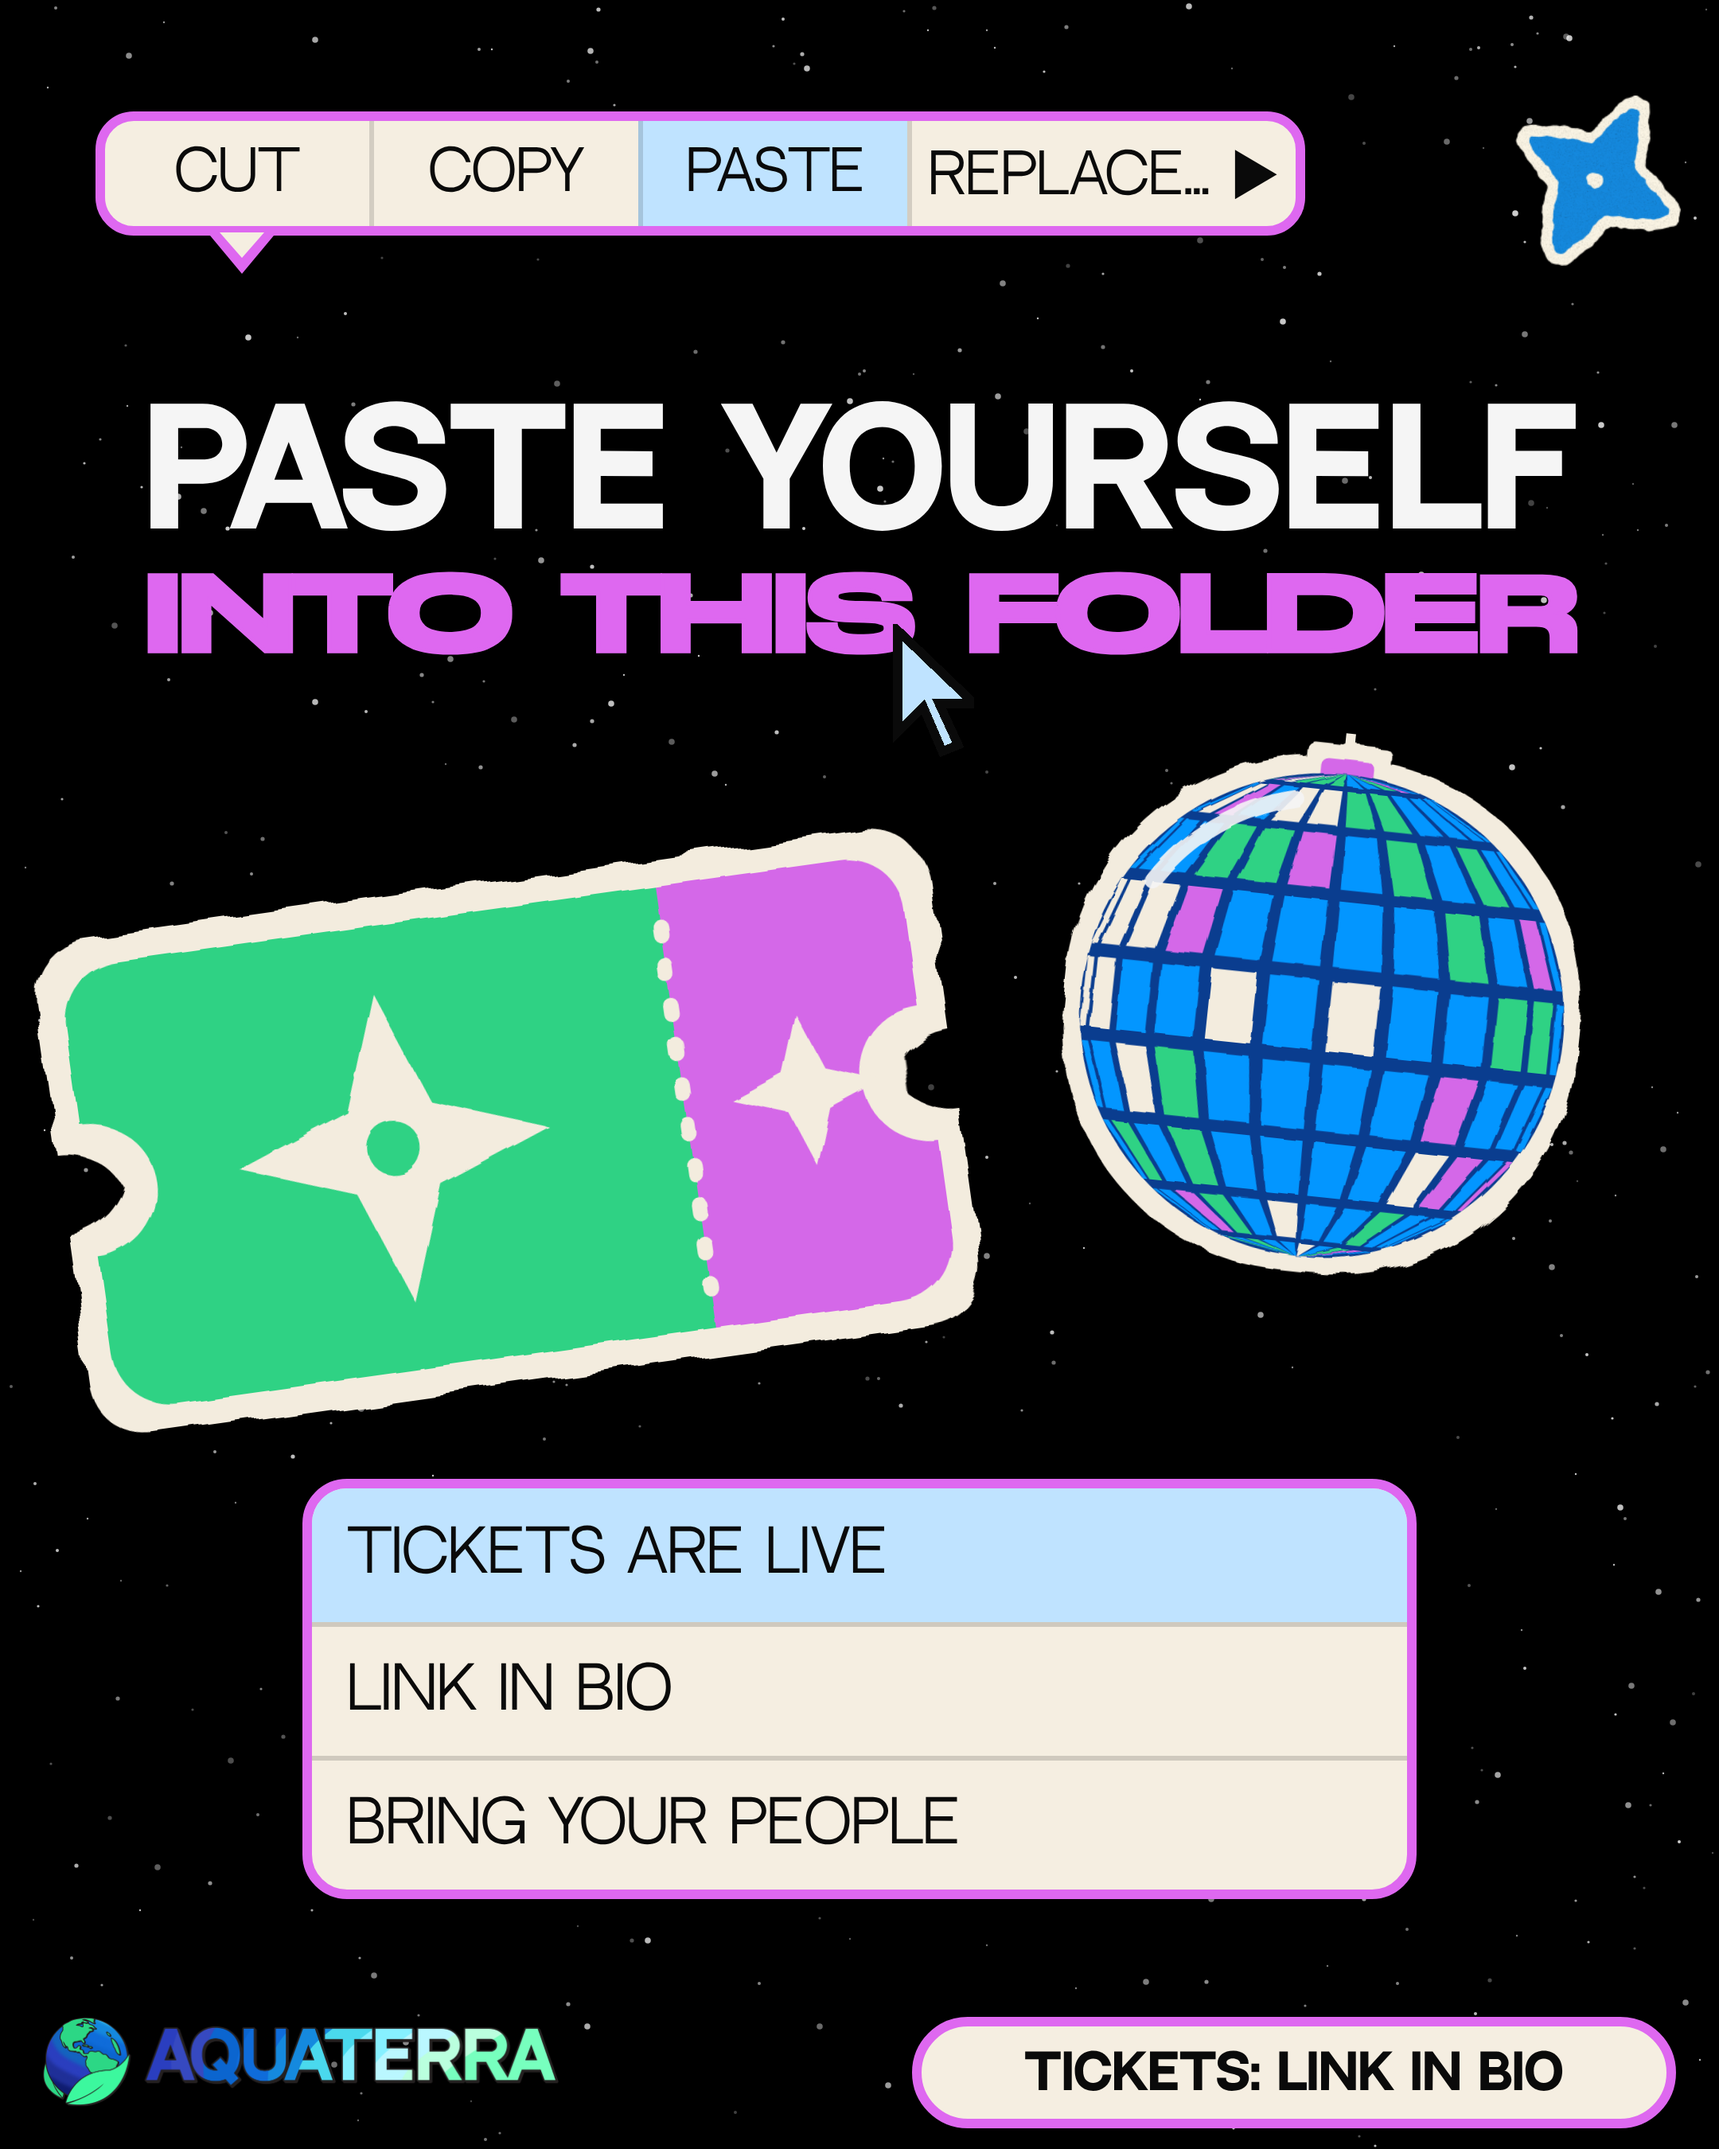
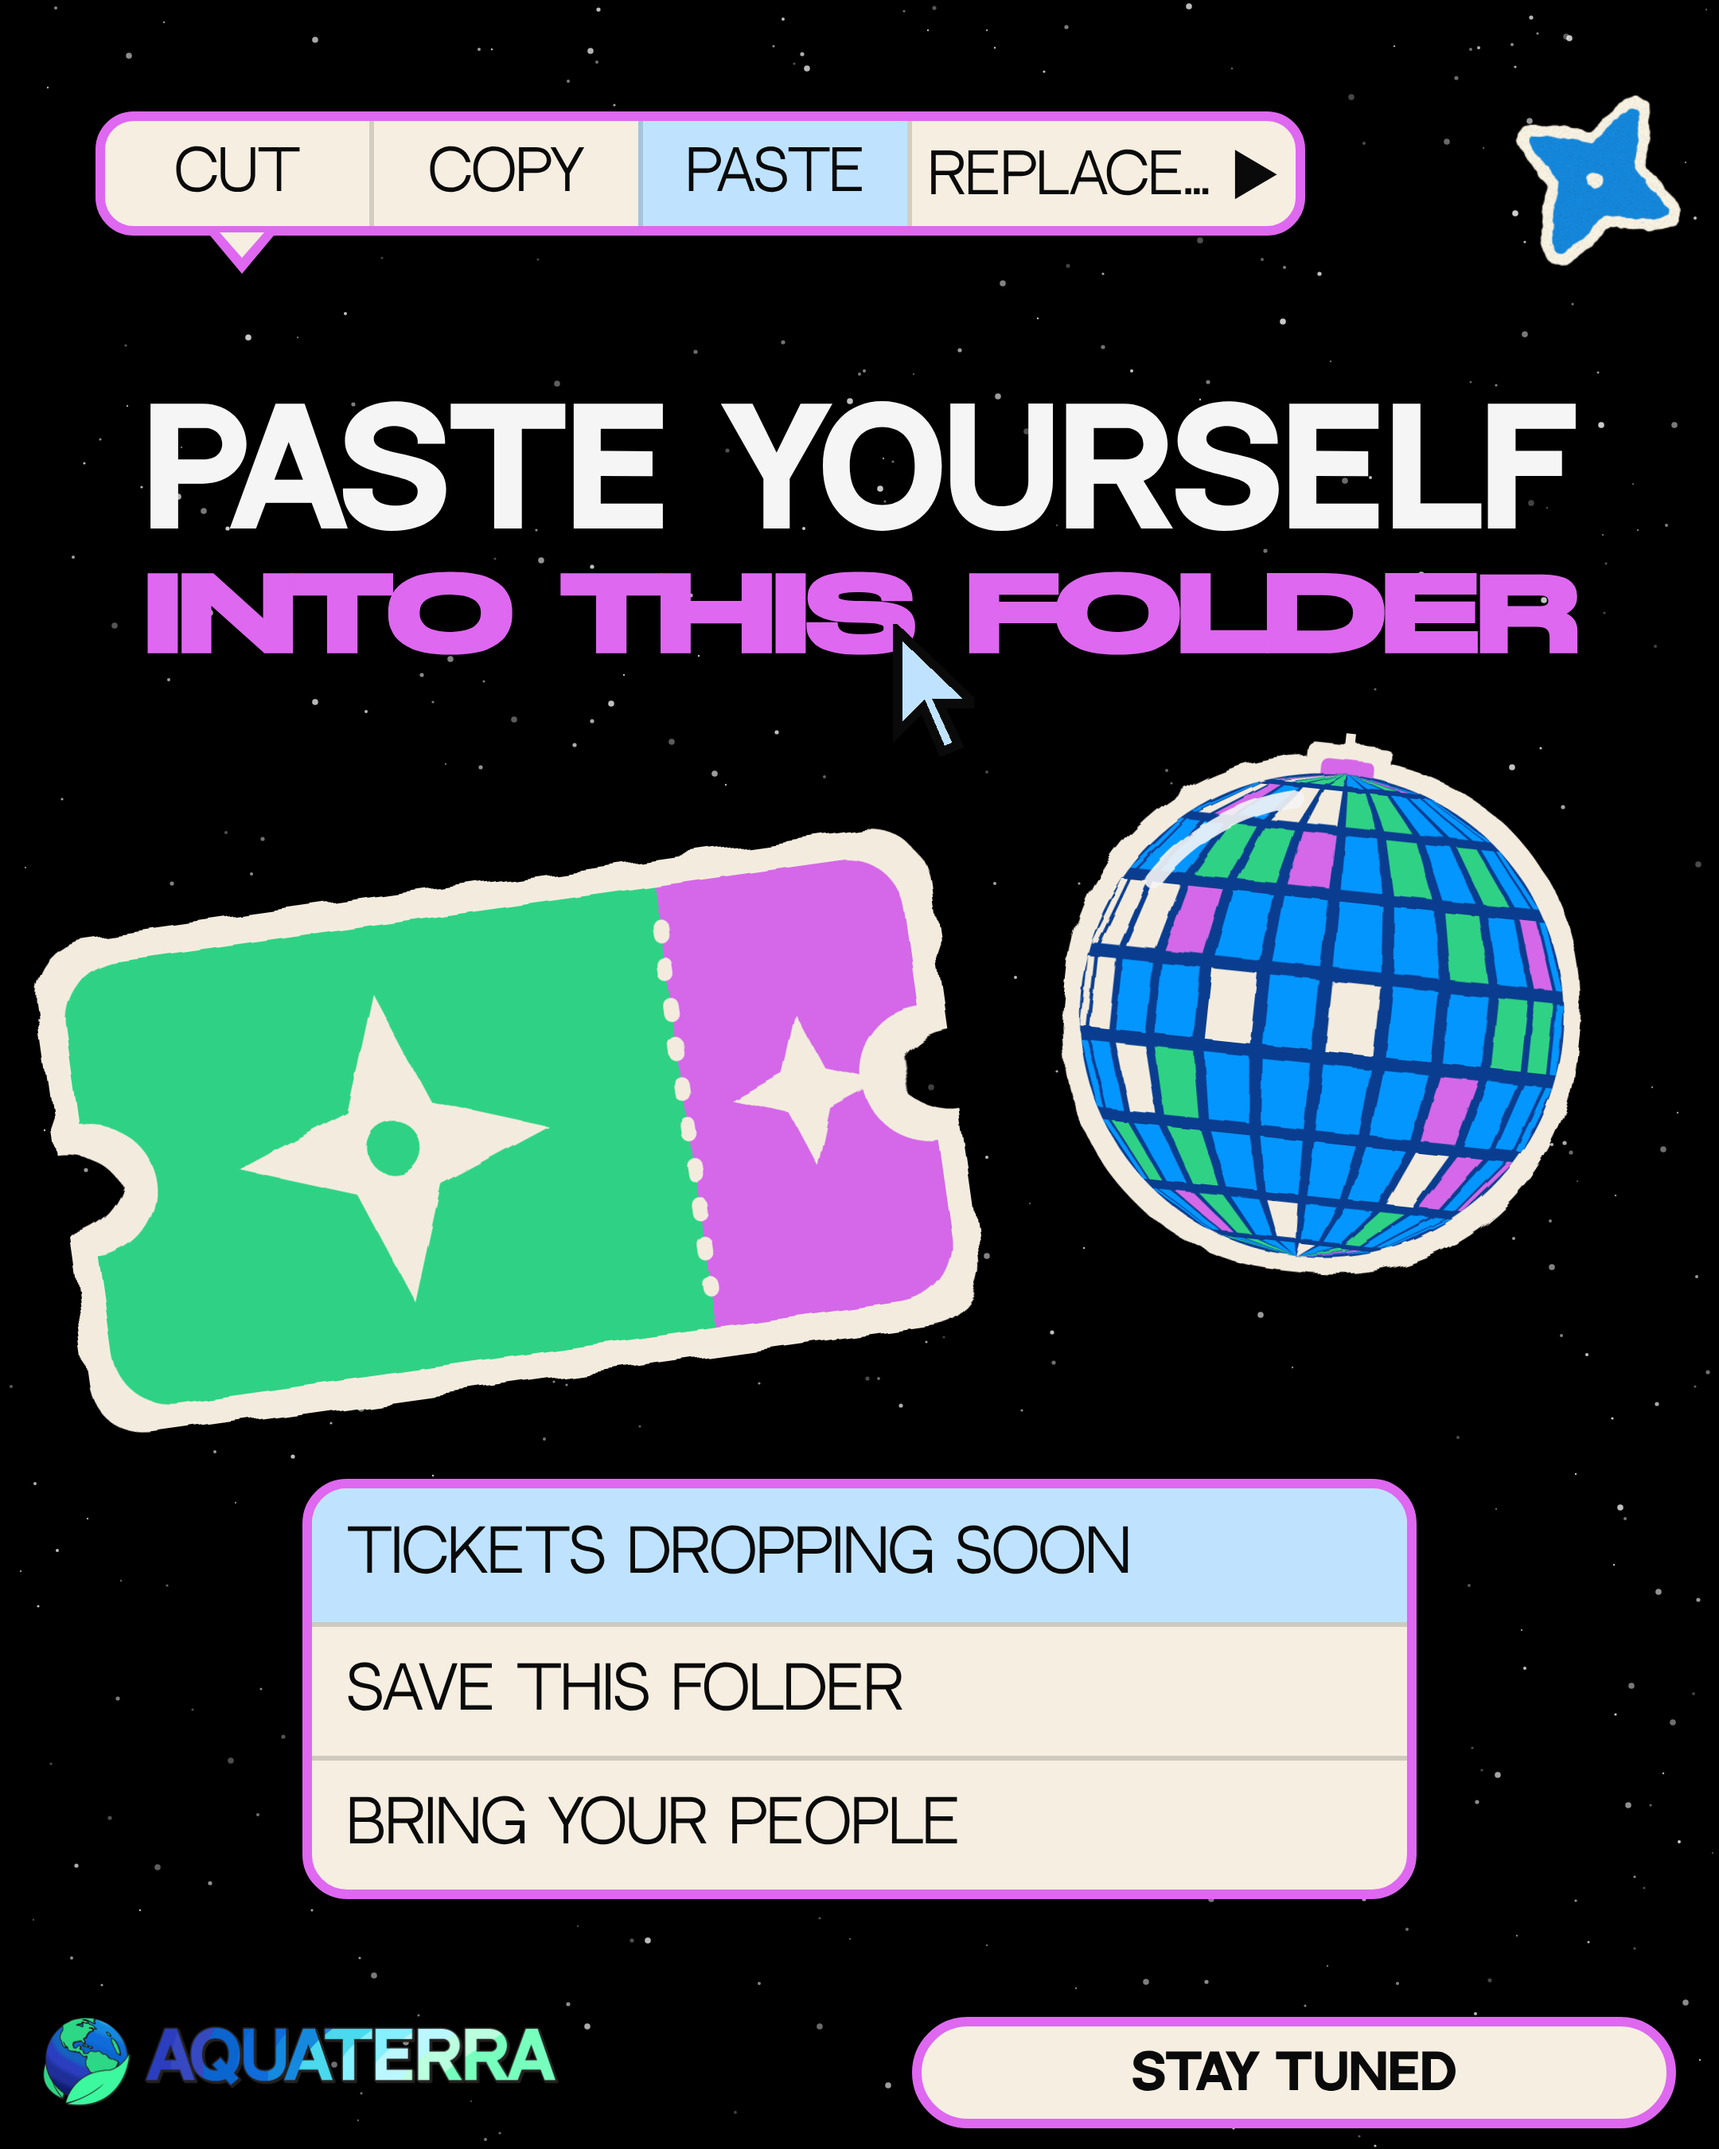
DD folder carousel: teaser closer (tickets not on sale yet)
Claude-Session: https://claude.ai/code/session_01FPyADAfvcX9LT1jBMzRpbG

diff --git a/scratchpad/tt_dd_folder_carousel.py b/scratchpad/tt_dd_folder_carousel.py
@@ -3,6 +3,7 @@ Mechanism borrowed from a reference post: a desktop-UI parody. A context-menu pi
 title (bold + light), a pixel cursor sitting on a letter, a dropdown list card with one highlighted row, flat blue folders, and
 three photos peeking out of a folder front. Dressed in TerraThon: black ground, orchid-bordered cream UI, StretchPro name,
 kit shuriken, the DD disco ball / ticket / diya stickers, the user's three real Disco Diwali photos.
+TEASER: tickets are NOT on sale yet (user, 2026-10-10), so no sale CTA, no link in bio.
 Slides: 1 cover (the folder) / 2 dance.jpg / 3 decor.jpg / 4 group.jpg / 5 closer (Paste yourself into this folder).
 NO date, venue or price printed anywhere (user: "do not mention date or anything"). Photos: engine/assets/terrathon/dd_photos/.
 Adaptations: reference's brand handle -> @ngo.aquaterra; reference's stock selfies -> real DD photos; macOS blue folder -> TT blue.
@@ -197,8 +198,8 @@ async def build():
     ball, bh = ddm.disco_ball(380, "b5"); svg_sticker(s, "ball", ball, W - 60 - 380, ty, 380, bh, 6)
     tk, tkh = ddm.ticket(560, "t5"); svg_sticker(s, "tkt", tk, 40, ty + 80, 560, tkh, -8)
     ly = ty + max(bh, tkh + 80) + 50
-    s.listcard("list", ["Tickets are live", "Link in bio", "Bring your people"], 190, ly, 700, hi=0)
-    s.footer(cta="TICKETS: LINK IN BIO"); s.allow("t2", "cur"); s.allow("ball", "tkt"); s.allow("t2", "star_tr")
+    s.listcard("list", ["Tickets dropping soon", "Save this folder", "Bring your people"], 190, ly, 700, hi=0)
+    s.footer(cta="STAY TUNED"); s.allow("t2", "cur"); s.allow("ball", "tkt"); s.allow("t2", "star_tr")
     out.append(("5", s))
     return out
 
